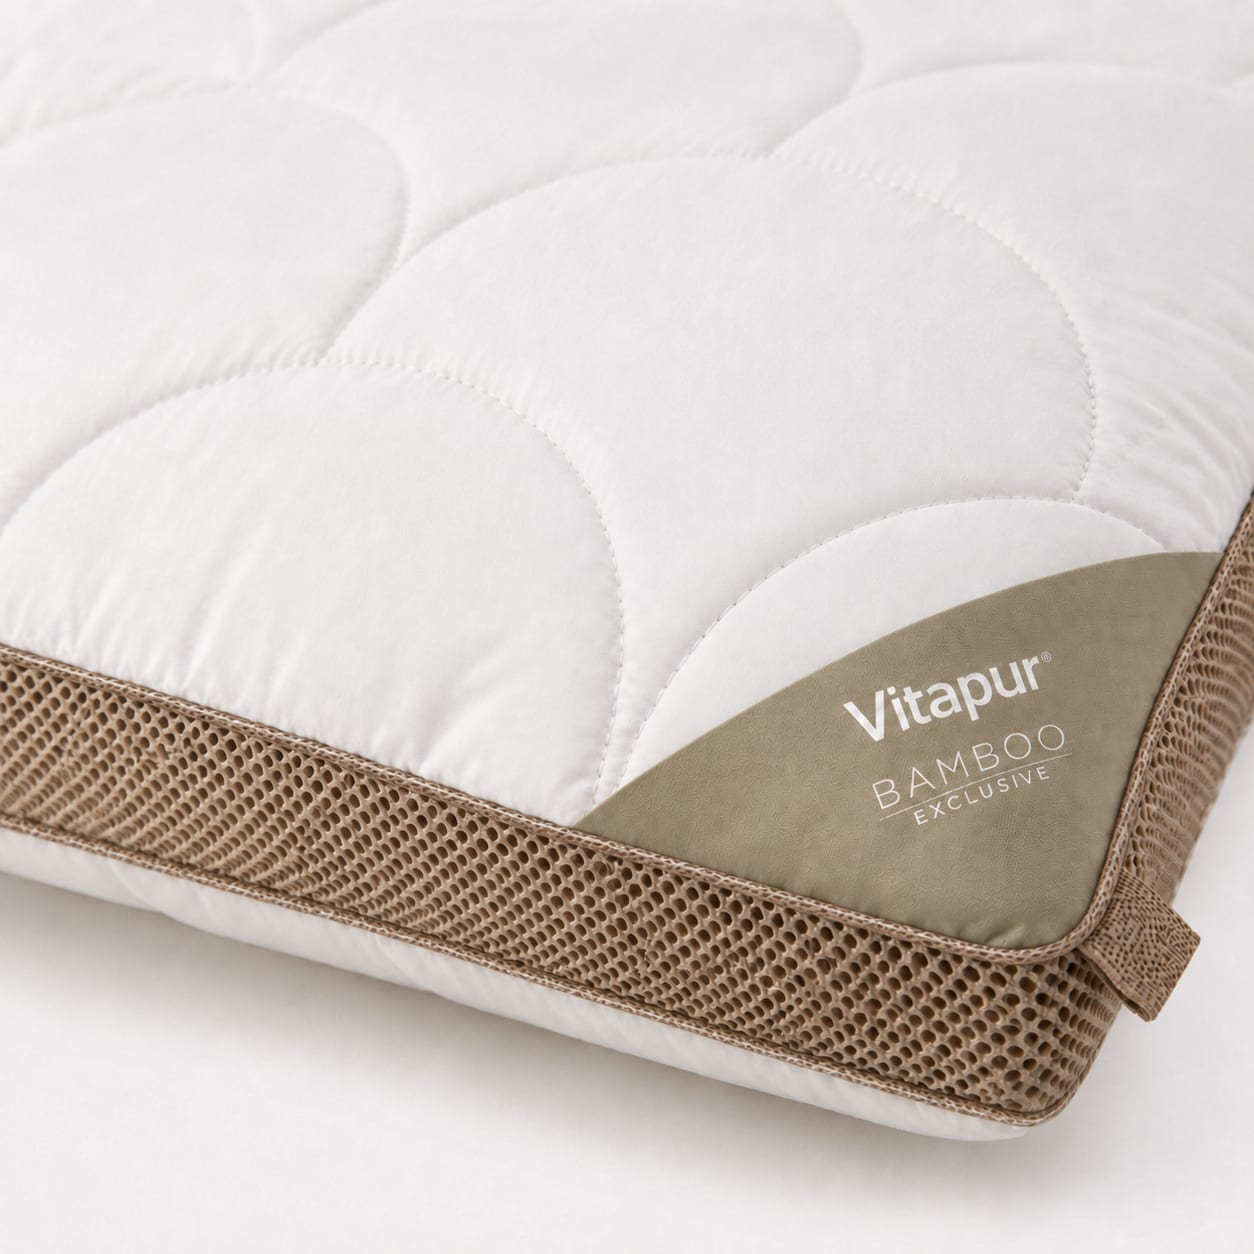
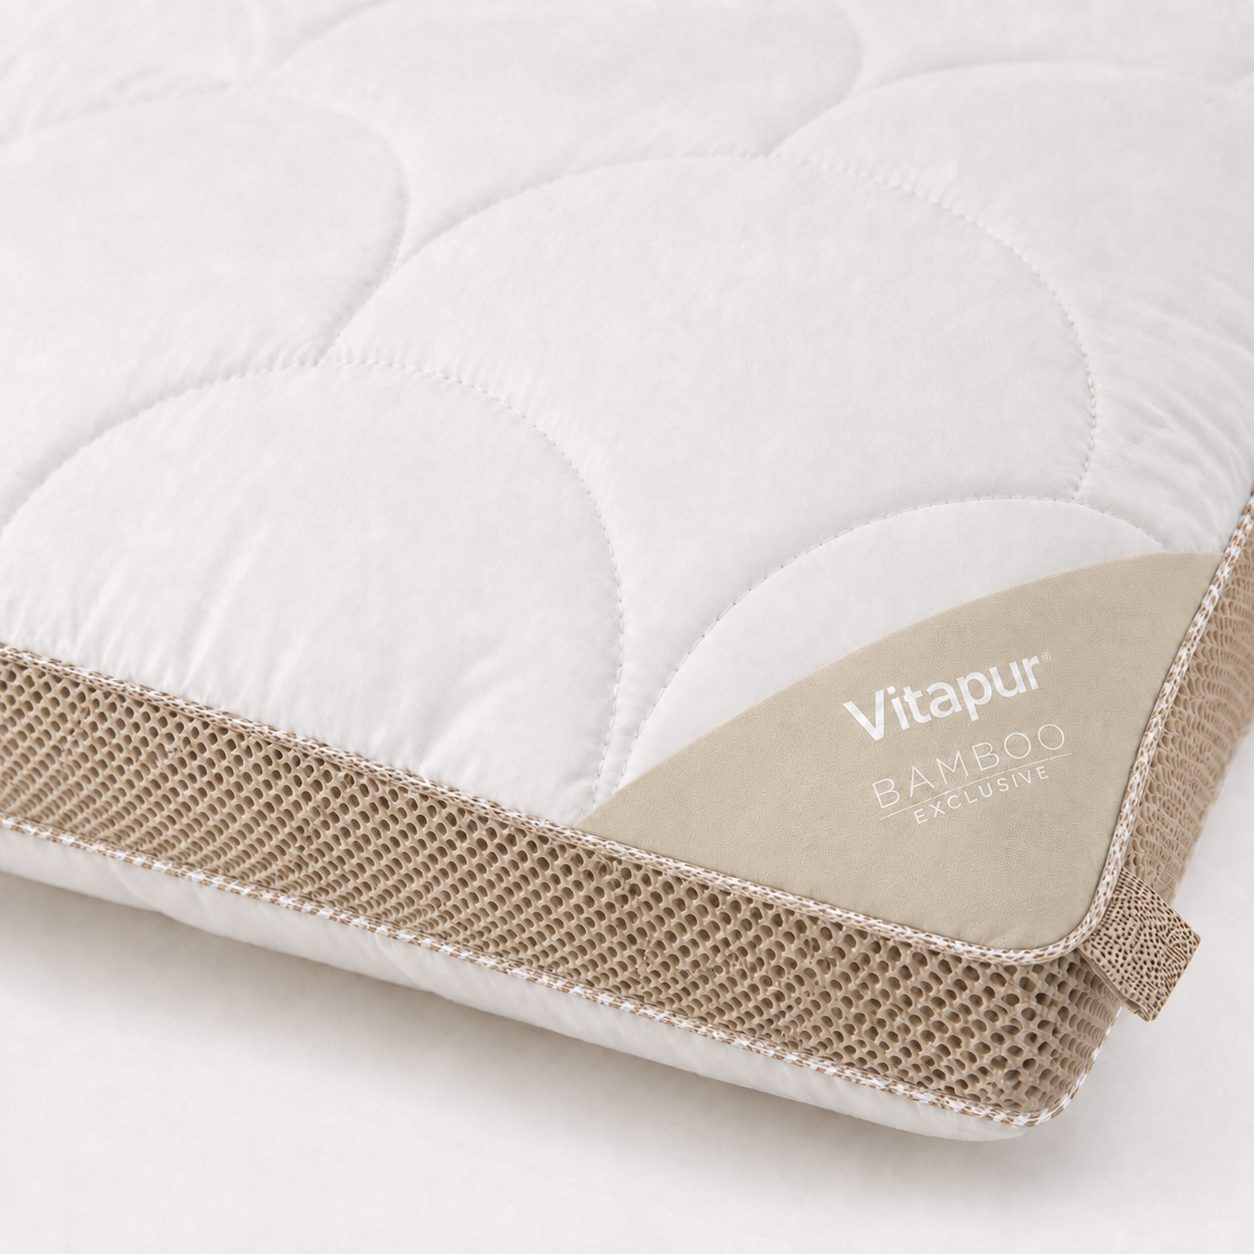
22335 Bamboo Exclusive: popravljen paspulni trak + svetlejši vogalni panel (sloti 1, 3)

Changed region(s): [[0.0, 0.3732, 1.0, 0.9019]]

diff --git a/vzglavnik-bamboo-exclusive.html b/vzglavnik-bamboo-exclusive.html
@@ -21,6 +21,6 @@
   @media (prefers-color-scheme: dark) { :root { --bg:#191713; --ink:#ece7df; --muted:#97907f; } figure { background:#221f1a; box-shadow:0 1px 3px rgba(0,0,0,.4);} }
 </style></head>
 <body><header><div class="eyebrow">Vitapur · Vzglavniki</div><h1>Bamboo Exclusive — klasični</h1><p>SKU 22335 · 50×70 cm, višina 15 cm · školjkasto prešitje, bambusova mikrovlakna, tan paspula + tan 3D mesh letev, khaki vogalni panel</p><a class="back" href="kat-vzglavniki.html">&larr; Vsi vzglavniki</a></header>
-<div class="grid"><figure><a href="img/vzglavnik-bamboo-exclusive/01_entry.jpg" target="_blank"><img src="img/vzglavnik-bamboo-exclusive/01_entry.jpg" alt="1 · ENTRY — Naslovni hero" loading="lazy"></a><figcaption><span class="num">01<span class="hero-tag">MAIN</span></span><div class="cap">1 · ENTRY — Naslovni hero</div></figcaption></figure><figure><a href="img/vzglavnik-bamboo-exclusive/02_polnilo.jpg" target="_blank"><img src="img/vzglavnik-bamboo-exclusive/02_polnilo.jpg" alt="2 · POLNILO — Bambusova mikrovlakna" loading="lazy"></a><figcaption><span class="num">02</span><div class="cap">2 · POLNILO — Bambusova mikrovlakna</div></figcaption></figure><figure><a href="img/vzglavnik-bamboo-exclusive/03_prevleka.jpg" target="_blank"><img src="img/vzglavnik-bamboo-exclusive/03_prevleka.jpg" alt="3 · PREVLEKA — Školjkasto prešitje + vogalni panel" loading="lazy"></a><figcaption><span class="num">03</span><div class="cap">3 · PREVLEKA — Školjkasto prešitje + vogalni panel</div></figcaption></figure><figure><a href="img/vzglavnik-bamboo-exclusive/04_profil.jpg" target="_blank"><img src="img/vzglavnik-bamboo-exclusive/04_profil.jpg" alt="4 · PROFIL — Boksan profil ~15 cm" loading="lazy"></a><figcaption><span class="num">04</span><div class="cap">4 · PROFIL — Boksan profil ~15 cm</div></figcaption></figure><figure><a href="img/vzglavnik-bamboo-exclusive/05_tehnologija.jpg" target="_blank"><img src="img/vzglavnik-bamboo-exclusive/05_tehnologija.jpg" alt="5 · TEHNOLOGIJA — Tan 3D zračni mesh (makro)" loading="lazy"></a><figcaption><span class="num">05</span><div class="cap">5 · TEHNOLOGIJA — Tan 3D zračni mesh (makro)</div></figcaption></figure><figure><a href="img/vzglavnik-bamboo-exclusive/06_ljudje.jpg" target="_blank"><img src="img/vzglavnik-bamboo-exclusive/06_ljudje.jpg" alt="6 · LJUDJE — Življenjski slog" loading="lazy"></a><figcaption><span class="num">06</span><div class="cap">6 · LJUDJE — Življenjski slog</div></figcaption></figure></div>
+<div class="grid"><figure><a href="img/vzglavnik-bamboo-exclusive/01_entry.jpg?v=20260728c" target="_blank"><img src="img/vzglavnik-bamboo-exclusive/01_entry.jpg?v=20260728c" alt="1 · ENTRY — Naslovni hero" loading="lazy"></a><figcaption><span class="num">01<span class="hero-tag">MAIN</span></span><div class="cap">1 · ENTRY — Naslovni hero</div></figcaption></figure><figure><a href="img/vzglavnik-bamboo-exclusive/02_polnilo.jpg" target="_blank"><img src="img/vzglavnik-bamboo-exclusive/02_polnilo.jpg" alt="2 · POLNILO — Bambusova mikrovlakna" loading="lazy"></a><figcaption><span class="num">02</span><div class="cap">2 · POLNILO — Bambusova mikrovlakna</div></figcaption></figure><figure><a href="img/vzglavnik-bamboo-exclusive/03_prevleka.jpg?v=20260728c" target="_blank"><img src="img/vzglavnik-bamboo-exclusive/03_prevleka.jpg?v=20260728c" alt="3 · PREVLEKA — Školjkasto prešitje + vogalni panel" loading="lazy"></a><figcaption><span class="num">03</span><div class="cap">3 · PREVLEKA — Školjkasto prešitje + vogalni panel</div></figcaption></figure><figure><a href="img/vzglavnik-bamboo-exclusive/04_profil.jpg" target="_blank"><img src="img/vzglavnik-bamboo-exclusive/04_profil.jpg" alt="4 · PROFIL — Boksan profil ~15 cm" loading="lazy"></a><figcaption><span class="num">04</span><div class="cap">4 · PROFIL — Boksan profil ~15 cm</div></figcaption></figure><figure><a href="img/vzglavnik-bamboo-exclusive/05_tehnologija.jpg" target="_blank"><img src="img/vzglavnik-bamboo-exclusive/05_tehnologija.jpg" alt="5 · TEHNOLOGIJA — Tan 3D zračni mesh (makro)" loading="lazy"></a><figcaption><span class="num">05</span><div class="cap">5 · TEHNOLOGIJA — Tan 3D zračni mesh (makro)</div></figcaption></figure><figure><a href="img/vzglavnik-bamboo-exclusive/06_ljudje.jpg" target="_blank"><img src="img/vzglavnik-bamboo-exclusive/06_ljudje.jpg" alt="6 · LJUDJE — Življenjski slog" loading="lazy"></a><figcaption><span class="num">06</span><div class="cap">6 · LJUDJE — Življenjski slog</div></figcaption></figure></div>
 <footer>Koncept galerije — julij 2026 · Vitapur · komentar vpiši pod posamezno sliko</footer><script src="comments.js" defer></script>
 </body></html>
